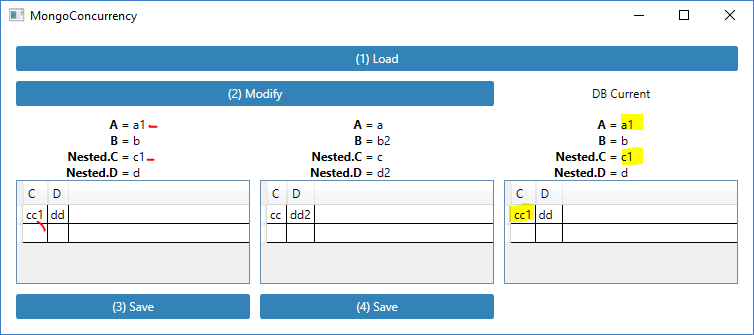
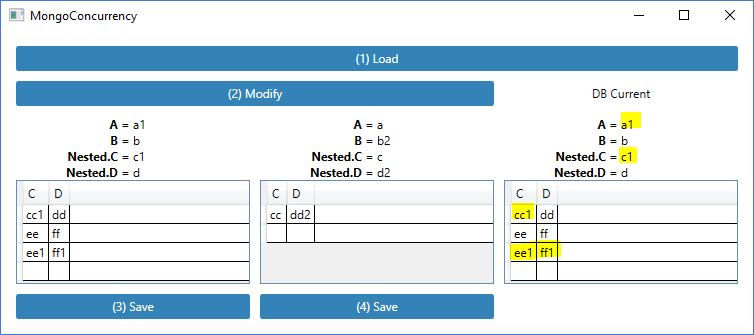
updated sample w/support of add/del item from set

diff --git a/src/MongoConcurrency/MainWindow.xaml.cs b/src/MongoConcurrency/MainWindow.xaml.cs
@@ -30,6 +30,7 @@ using System.Windows;
 using System.Linq;
 using Repository.Mongo;
 using SearchAThing;
+using MongoDB.Bson.Serialization;
 
 namespace SearchAThing.Patterns.MongoDBWpf
 {
@@ -115,6 +116,7 @@ namespace SearchAThing.Patterns.MongoDBWpf
                 {
                     var obc = new ObservableCollection<NestedDocumentEntity>();
                     obc.Add(new NestedDocumentEntity() { C = "cc", D = "dd" });
+                    obc.Add(new NestedDocumentEntity() { C = "ee", D = "ff" });
                     doc.Children = obc;
                 }
                 repo.Insert(doc);
@@ -138,12 +140,22 @@ namespace SearchAThing.Patterns.MongoDBWpf
             Entity1.A = "a1";
             Entity1.Nested.C = "c1";
             Entity1.Children.First().C = "cc1";
-            System.Console.WriteLine($"Entity1.Children.First().ChangedProperties.Count={Entity1.Children.First().ChangedProperties.Count}");
+            {
+                // add item1
+                var newItem1 = new NestedDocumentEntity() { C = "ee1", D = "ff1" };
+                Entity1.Children.Add(newItem1); // add to OBC
+                Entity1.Children.SetAsNew(Entity1, newItem1); // set as added
+            }
 
             Entity2.B = "b2";
             Entity2.Nested.D = "d2";
             Entity2.Children.First().D = "dd2";
-            System.Console.WriteLine($"Entity2.Children.First().ChangedProperties.Count={Entity2.Children.First().ChangedProperties.Count}");
+            {
+                // del item2
+                var oldItem2 = Entity2.Children.Skip(1).First();
+                Entity2.Children.Remove(oldItem2); // remove from OBC                
+                Entity2.Children.SetAsDeleted(Entity2, oldItem2); // set as deleted                
+            }
         }
 
         private void Save1_Click(object sender, RoutedEventArgs e)
@@ -152,10 +164,7 @@ namespace SearchAThing.Patterns.MongoDBWpf
 
             var id = Entity1.Id;
 
-            var updates = Entity1.Changes(repo.Updater).ToArray();
-            System.Console.WriteLine($"Save1 : updates {updates.Length}");
-
-            repo.Update(Entity1, updates);
+            Entity1.UpdateWithTrack(repo); // commit with track changes
 
             LoadEntityDBCurrent();
         }
@@ -165,10 +174,7 @@ namespace SearchAThing.Patterns.MongoDBWpf
             var repo = new Repository<DocumentEntity>(ConnectionString);
             var id = Entity2.Id;
 
-            var updates = Entity2.Changes(repo.Updater).ToArray();
-            System.Console.WriteLine($"Save2 : updates {updates.Length}");
-
-            repo.Update(Entity2, updates);
+            Entity2.UpdateWithTrack(repo); // commit with track changes
 
             LoadEntityDBCurrent();
         }

diff --git a/src/MongoConcurrency/Entity/DocumentEntity.cs b/src/MongoConcurrency/Entity/DocumentEntity.cs
@@ -27,10 +27,7 @@ using Repository.Mongo;
 using System.ComponentModel;
 using System.Collections.Generic;
 using System.Collections.ObjectModel;
-using System.Windows.Data;
-using System;
-using System.Globalization;
-using System.Linq;
+using SearchAThing.MongoDB;
 
 namespace SearchAThing.Patterns.MongoDBWpf.Ents
 {
@@ -39,8 +36,8 @@ namespace SearchAThing.Patterns.MongoDBWpf.Ents
     {
 
         #region IMongoEntityTrackChanges
-        HashSet<string> _ChangedProperties;
-        public HashSet<string> ChangedProperties { get { return _ChangedProperties; } }
+        MongoEntityTrackChanges _TrackChanges;       
+        public MongoEntityTrackChanges TrackChanges { get { return _TrackChanges; } }        
         #endregion
 
         #region ISupportInitialize
@@ -50,7 +47,7 @@ namespace SearchAThing.Patterns.MongoDBWpf.Ents
 
         public void EndInit()
         {
-            _ChangedProperties = new HashSet<string>();
+            _TrackChanges = new MongoEntityTrackChanges();
         }
         #endregion
 
@@ -75,7 +72,7 @@ namespace SearchAThing.Patterns.MongoDBWpf.Ents
                 if (_A != value)
                 {
                     _A = value;
-                    ChangedProperties?.Add("A"); // use of ? operator ( until endinit is null )
+                    TrackChanges?.ChangedProperties.Add("A"); // use of ? operator ( until endinit is null )
                     SendPropertyChanged("A");
                 }
             }
@@ -95,7 +92,7 @@ namespace SearchAThing.Patterns.MongoDBWpf.Ents
                 if (_B != value)
                 {
                     _B = value;
-                    ChangedProperties?.Add("B"); // use of ? operator ( until endinit is null )
+                    TrackChanges?.ChangedProperties.Add("B"); // use of ? operator ( until endinit is null )
                     SendPropertyChanged("B");
                 }
             }

diff --git a/src/MongoConcurrency/Entity/NestedDocumentEntity.cs b/src/MongoConcurrency/Entity/NestedDocumentEntity.cs
@@ -25,6 +25,7 @@
 
 using System.ComponentModel;
 using System.Collections.Generic;
+using SearchAThing.MongoDB;
 
 namespace SearchAThing.Patterns.MongoDBWpf.Ents
 {
@@ -33,8 +34,8 @@ namespace SearchAThing.Patterns.MongoDBWpf.Ents
     {
 
         #region IMongoEntityTrackChanges
-        HashSet<string> _ChangedProperties;
-        public HashSet<string> ChangedProperties { get { return _ChangedProperties; } }
+        MongoEntityTrackChanges _TrackChanges;
+        public MongoEntityTrackChanges TrackChanges { get { return _TrackChanges; } }
         #endregion
 
         #region ISupportInitialize
@@ -44,7 +45,7 @@ namespace SearchAThing.Patterns.MongoDBWpf.Ents
 
         public void EndInit()
         {
-            _ChangedProperties = new HashSet<string>();
+            _TrackChanges = new MongoEntityTrackChanges();
         }
         #endregion
 
@@ -69,7 +70,7 @@ namespace SearchAThing.Patterns.MongoDBWpf.Ents
                 if (_C != value)
                 {
                     _C = value;
-                    ChangedProperties?.Add("C"); // use of ? operator ( until endinit is null )
+                    TrackChanges?.ChangedProperties.Add("C"); // use of ? operator ( until endinit is null )
                     SendPropertyChanged("C");
                 }
             }
@@ -89,7 +90,7 @@ namespace SearchAThing.Patterns.MongoDBWpf.Ents
                 if (_D != value)
                 {
                     _D = value;
-                    ChangedProperties?.Add("D"); // use of ? operator ( until endinit is null )
+                    TrackChanges?.ChangedProperties.Add("D"); // use of ? operator ( until endinit is null )
                     SendPropertyChanged("D");
                 }
             }

diff --git a/src/MongoConcurrency/README.md b/src/MongoConcurrency/README.md
@@ -25,10 +25,12 @@ Third column after display current db content after each opeation.
 Entity1.A = a1
 Entity1.Nested.C = c1
 Entity1.Children.First().C = cc1
+Entity1.Children.Add(new { C = ee1, D = ff1 })
 
 Entity2.B = b2
 Entity2.Nested.D = d2
 Entity2.Children.First().D = dd2
+Entity2.Children.Delete: 2th ( C = ee, D = ff )
 ```
 
 Here intentionally only not overlapped fields are updated, the intent is to see after save of Entity1 and then of Entity2 that last save of Entity2 not write its unmodified fields in order to avoid to overwrite changes done from Entity1 save.
@@ -52,14 +54,14 @@ Entity2 save
     - implements `IMongoEntityTrackChanges` interface:
     ```csharp
     #region IMongoEntityTrackChanges
-    HashSet<string> _ChangedProperties;
-    public HashSet<string> ChangedProperties { get { return _ChangedProperties; } }
+    MongoEntityTrackChanges _TrackChanges;       
+    public MongoEntityTrackChanges TrackChanges { get { return _TrackChanges; } }        
     #endregion
     ```
 
     - when not null add the changed property name to the ChangedProperties hashset. In fact this will be null during the loading phase in order to avoid auto-change:
     ```csharp
-    ChangedProperties?.Add("A"); // use of ? operator ( until endinit is null )
+    TrackChanges?.ChangedProperties.Add("A"); // use of ? operator ( until endinit is null )
     ```
 
     - implements `ISupportInitialize` interface. This way allow to allocate ChangedProperties hashset to be used when properties will be changed:
@@ -71,12 +73,12 @@ Entity2 save
 
     public void EndInit()
     {
-        _ChangedProperties = new HashSet<string>();
+        _TrackChanges = new MongoEntityTrackChanges();
     }
     #endregion
     ```
 
-    - save changes using the UpdateDefinition array from the Changes extension method. (Note: This will clear the ChangedProperties)
+    - save changes using `UpdateWithTrack` extension to the entity.
     ```csharp
-    repo.Update(Entity1, Entity1.Changes(repo.Updater));
+    Entity1.UpdateWithTrack(repo);
     ```
